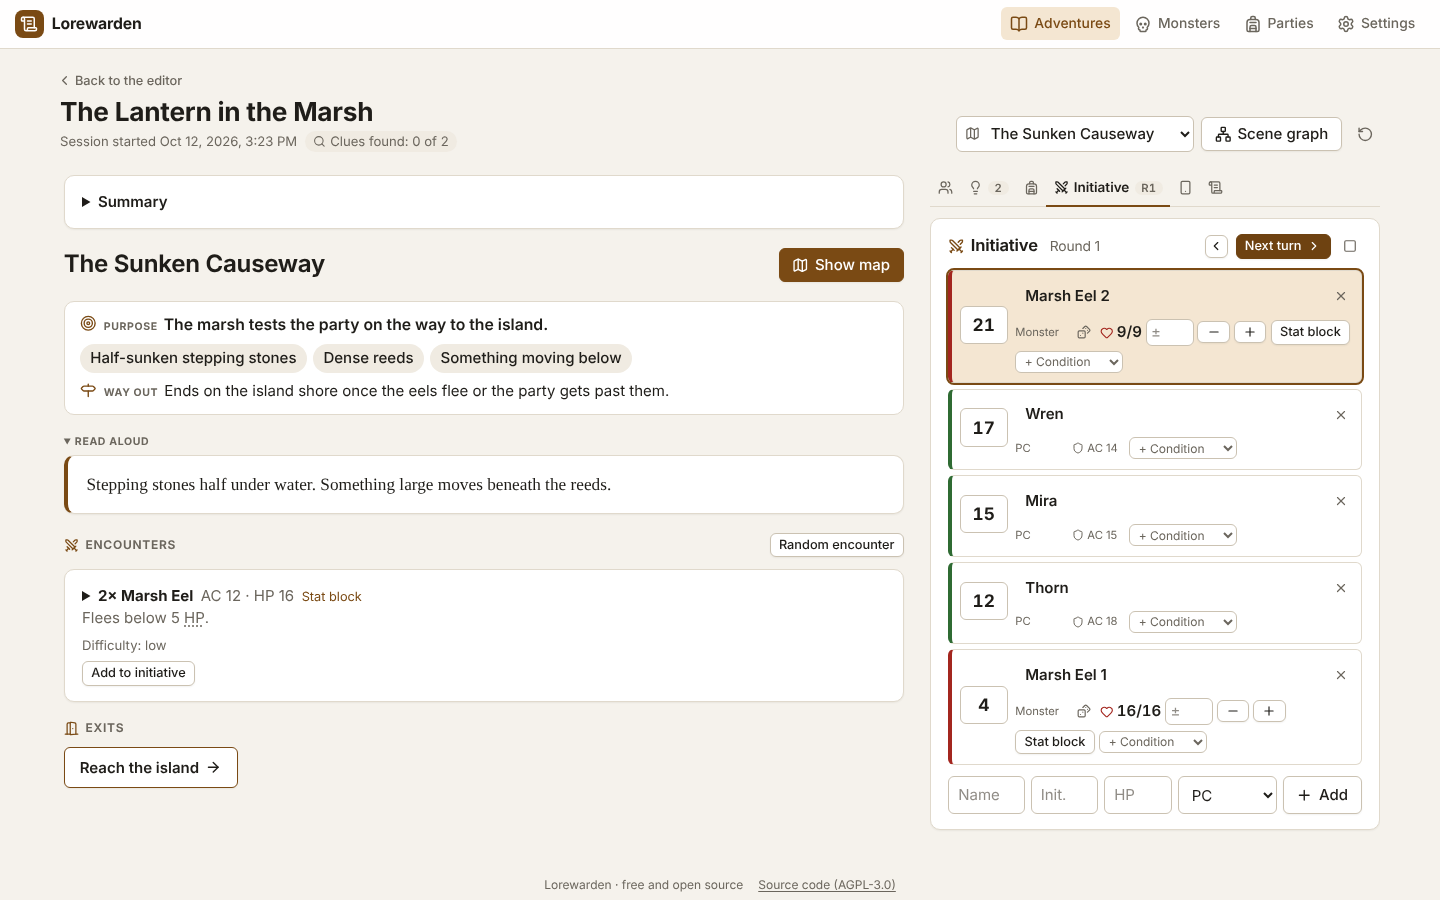
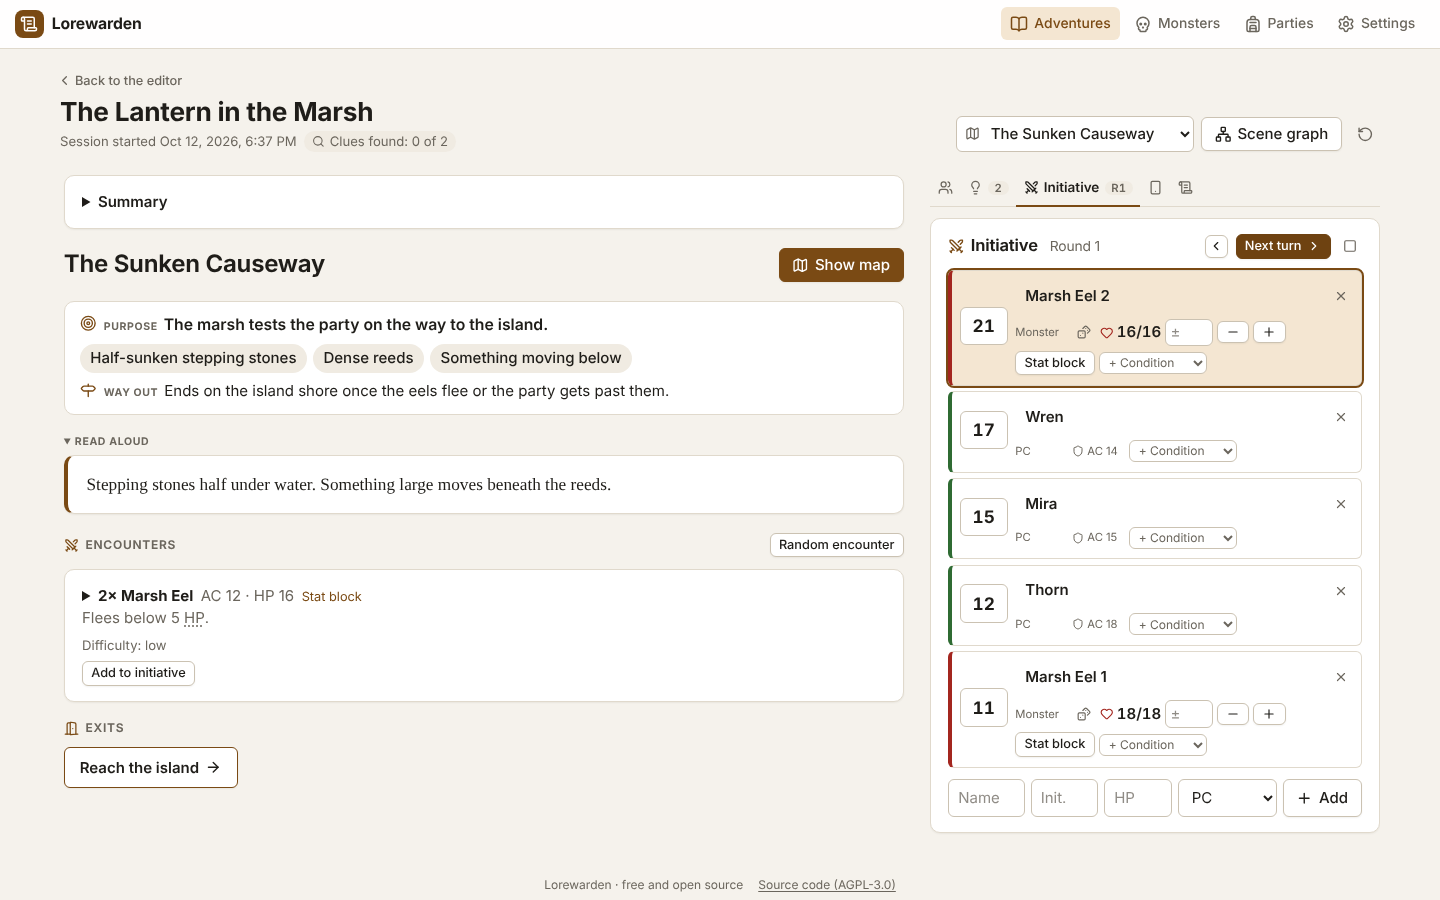
Merge the party and player tabs in live mode
The player tab shows the party's characters with their numbers and
whose phone is connected, then the phones of other players and what is
shown on the phones. The separate party tab is gone.

diff --git a/apps/dm/src/views/LiveView.vue b/apps/dm/src/views/LiveView.vue
@@ -21,7 +21,6 @@ import {
 } from '@lorewarden/core';
 import {
   ArrowRight,
-  Backpack,
   ChevronLeft,
   ChevronsUp,
   DoorOpen,
@@ -134,17 +133,11 @@ const sceneNpcs = computed(
  * The side column shows one tool at a time next to the scene, so the scene text and an NPC or the
  * initiative can be read side by side without scrolling between them.
  */
-type SideTab = 'npcs' | 'open' | 'party' | 'combat' | 'table' | 'log';
-// The party tab is there when the adventure is played with one of the game master's parties.
-const sideTabs = computed<SideTab[]>(() =>
-  ['npcs', 'open', 'party', 'combat', 'table', 'log'].filter(
-    (name): name is SideTab => name !== 'party' || !!party.value,
-  ),
-);
+type SideTab = 'npcs' | 'open' | 'combat' | 'table' | 'log';
+const sideTabs: SideTab[] = ['npcs', 'open', 'combat', 'table', 'log'];
 const sideTabIcons = {
   npcs: Users,
   open: Lightbulb,
-  party: Backpack,
   combat: Swords,
   table: Smartphone,
   log: ScrollText,
@@ -717,20 +710,6 @@ function newSession() {
             />
           </div>
           <div
-            v-if="party"
-            v-show="sideTab === 'party'"
-            id="side-panel-party"
-            role="tabpanel"
-            aria-labelledby="side-tab-party"
-          >
-            <PartyPanel
-              :party="party"
-              :session="session"
-              :players="tableOn ? onlinePlayers : []"
-              @add-party="addParty"
-            />
-          </div>
-          <div
             v-show="sideTab === 'combat'"
             id="side-panel-combat"
             role="tabpanel"
@@ -746,9 +725,18 @@ function newSession() {
           <div
             v-show="sideTab === 'table'"
             id="side-panel-table"
+            class="stack"
             role="tabpanel"
             aria-labelledby="side-tab-table"
           >
+            <!-- The players: the party's characters with their numbers, then the phones. -->
+            <PartyPanel
+              v-if="party"
+              :party="party"
+              :session="session"
+              :players="tableOn ? onlinePlayers : []"
+              @add-party="addParty"
+            />
             <TablePanel :table="table" :adventure="adventure" :session="session" :party="party" />
           </div>
           <div v-show="sideTab === 'log'" id="side-panel-log" role="tabpanel" aria-labelledby="side-tab-log">

diff --git a/apps/dm/src/components/TablePanel.vue b/apps/dm/src/components/TablePanel.vue
@@ -79,6 +79,10 @@ const rows = computed<Row[]>(() => {
 });
 
 const onlineCount = computed(() => rows.value.filter((row) => row.online).length);
+/** With a party, its characters are shown above with their numbers; here only the other phones. */
+const listed = computed(() =>
+  props.party ? rows.value.filter((row) => !row.character) : rows.value,
+);
 /** Rows with a phone, which reveals can be sent to. */
 const reachable = computed(() =>
   rows.value.flatMap((row) => (row.playerId ? [{ ...row, playerId: row.playerId }] : [])),
@@ -188,8 +192,8 @@ function newCode() {
       </div>
     </header>
 
-    <ul v-if="rows.length > 0 && (enabled || party)" class="list players" :aria-label="t('table.players')">
-      <li v-for="row in rows" :key="row.key" class="player">
+    <ul v-if="listed.length > 0 && enabled" class="list players" :aria-label="t('table.players')">
+      <li v-for="row in listed" :key="row.key" class="player">
         <span
           class="dot"
           :class="{ online: enabled && row.online }"
